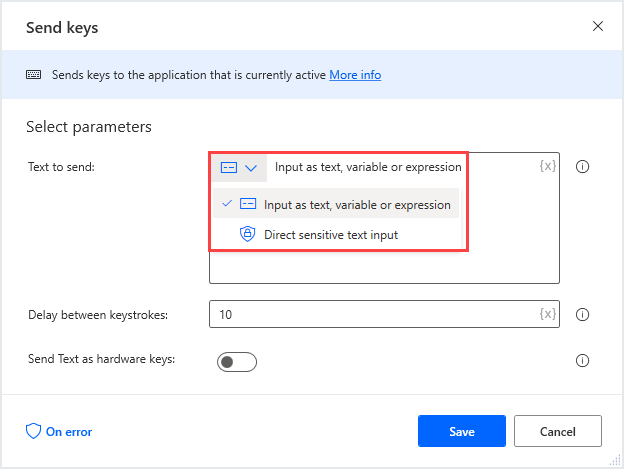
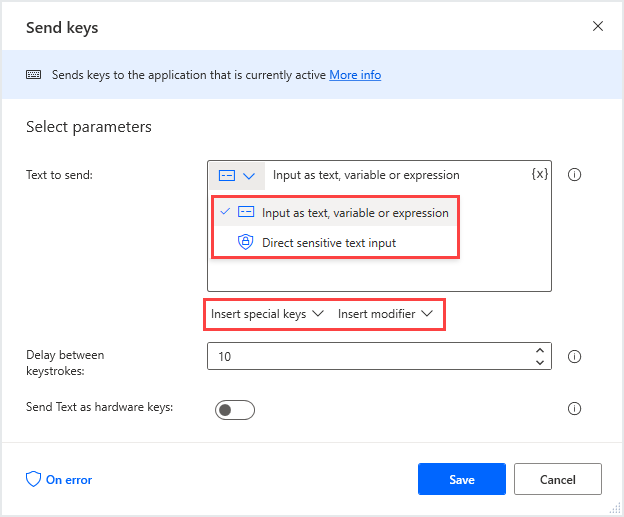
Updated modules
Updated:
>pad-mouse-keyboard
>pad-flow-control

diff --git a/learn-bizapps-pr/flow/pad-mouse-keyboard/includes/2-mouse-keyboard-actions.md b/learn-bizapps-pr/flow/pad-mouse-keyboard/includes/2-mouse-keyboard-actions.md
@@ -55,7 +55,7 @@ To simulate mouse click(s), use the **Send Mouse Click**. Choose whether the act
 
 ## Keyboard actions
 
-Simulate using the physical keyboard to enter text or other key commands with the **Send Keys** action. Enter the text to send or specify a text variable. Additionally, set **Direct sensitive text input** to hide the text in the action properties. Select the "eye" icon to show the text you entered. For more specialized key commands, use the Insert Special Key buttons to insert special keys such as the arrow keys, Caps Lock or keys from the numeric keypad, and Insert Modifier to send keys such as Shift and Control. Optionally, set a delay between the keystrokes in milliseconds. 
+Simulate using the physical keyboard to enter text or other key commands with the **Send Keys** action. Enter the text to send or specify a text variable. Additionally, set **Direct sensitive text input** to hide the text in the action properties. Select the "eye" icon to show the text you entered. For more specialized key commands, use the **Insert special key** button to keys such as the arrow keys, Caps Lock or keys from the numeric keypad, and **Insert modifier** to send keys such as Shift and Control. Optionally, set a delay between the keystrokes in milliseconds. 
 
 ![Send Keys action properties](..\media\send-keys-action.png)
 

diff --git a/learn-bizapps-pr/flow/pad-flow-control/includes/2-flow-control-actions.md b/learn-bizapps-pr/flow/pad-flow-control/includes/2-flow-control-actions.md
@@ -13,12 +13,12 @@ To enter a comment for reference purposes which is displayed in the workspace, u
 
 ![comment action properties](..\media\comment-action-properties.png)
 
-Direct the flow to a specific point in the flow marked with the **Label** action. Provide a name for the label and use a **Go to** action and provide the label name to direct the flow to it.
+Direct the flow to a specific point in the flow marked with the **Label** action. Provide a name for the label. 
 
 
 ![label action properties](..\media\label-action-properties.png)
 
-
+Use a **Go to** action and select the label from a drop-down list to direct the flow to it.
 
 ![go to action properties](..\media\go-to-action-properties.png)
 
